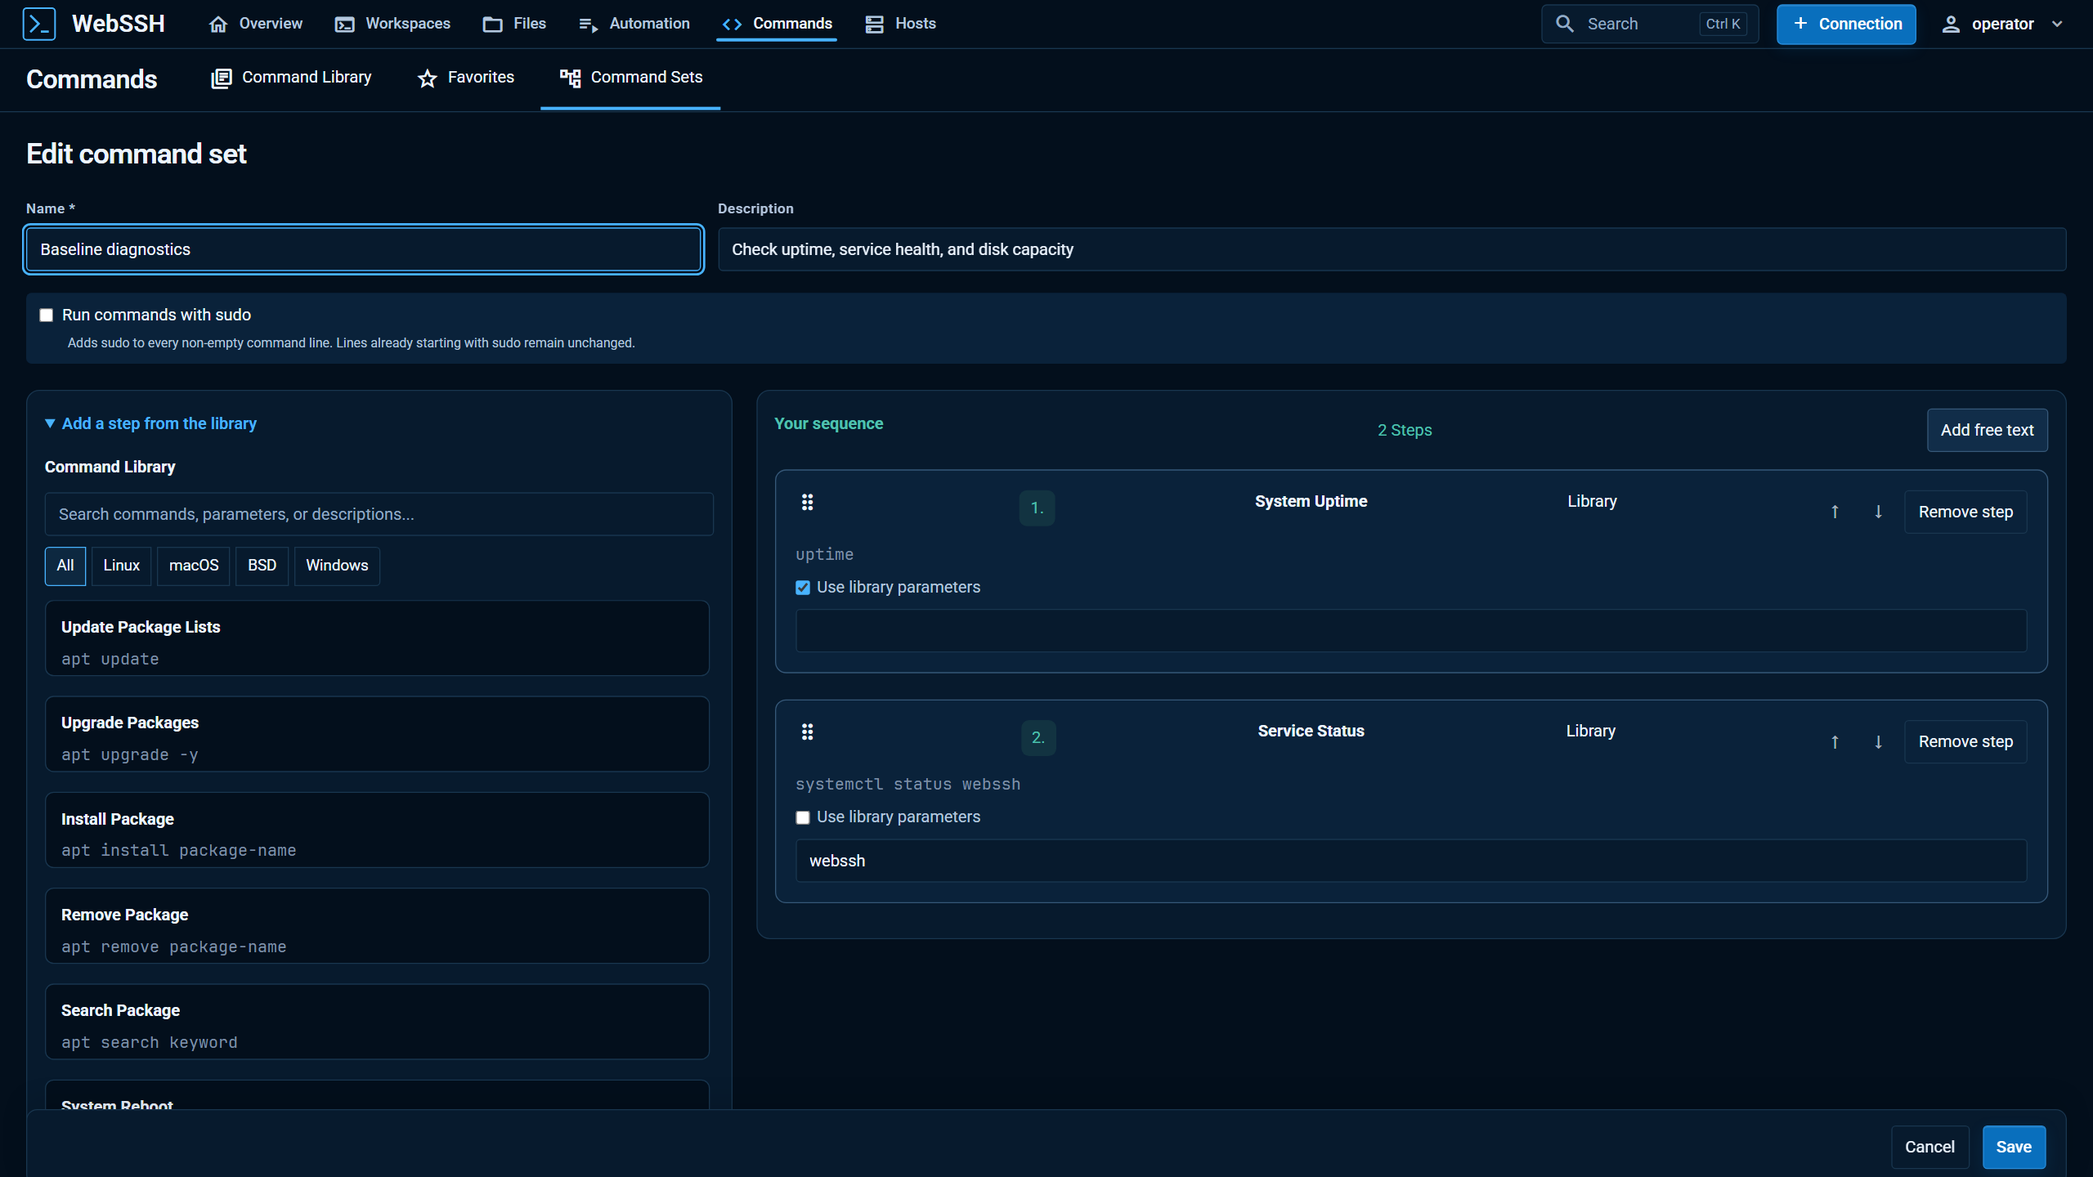
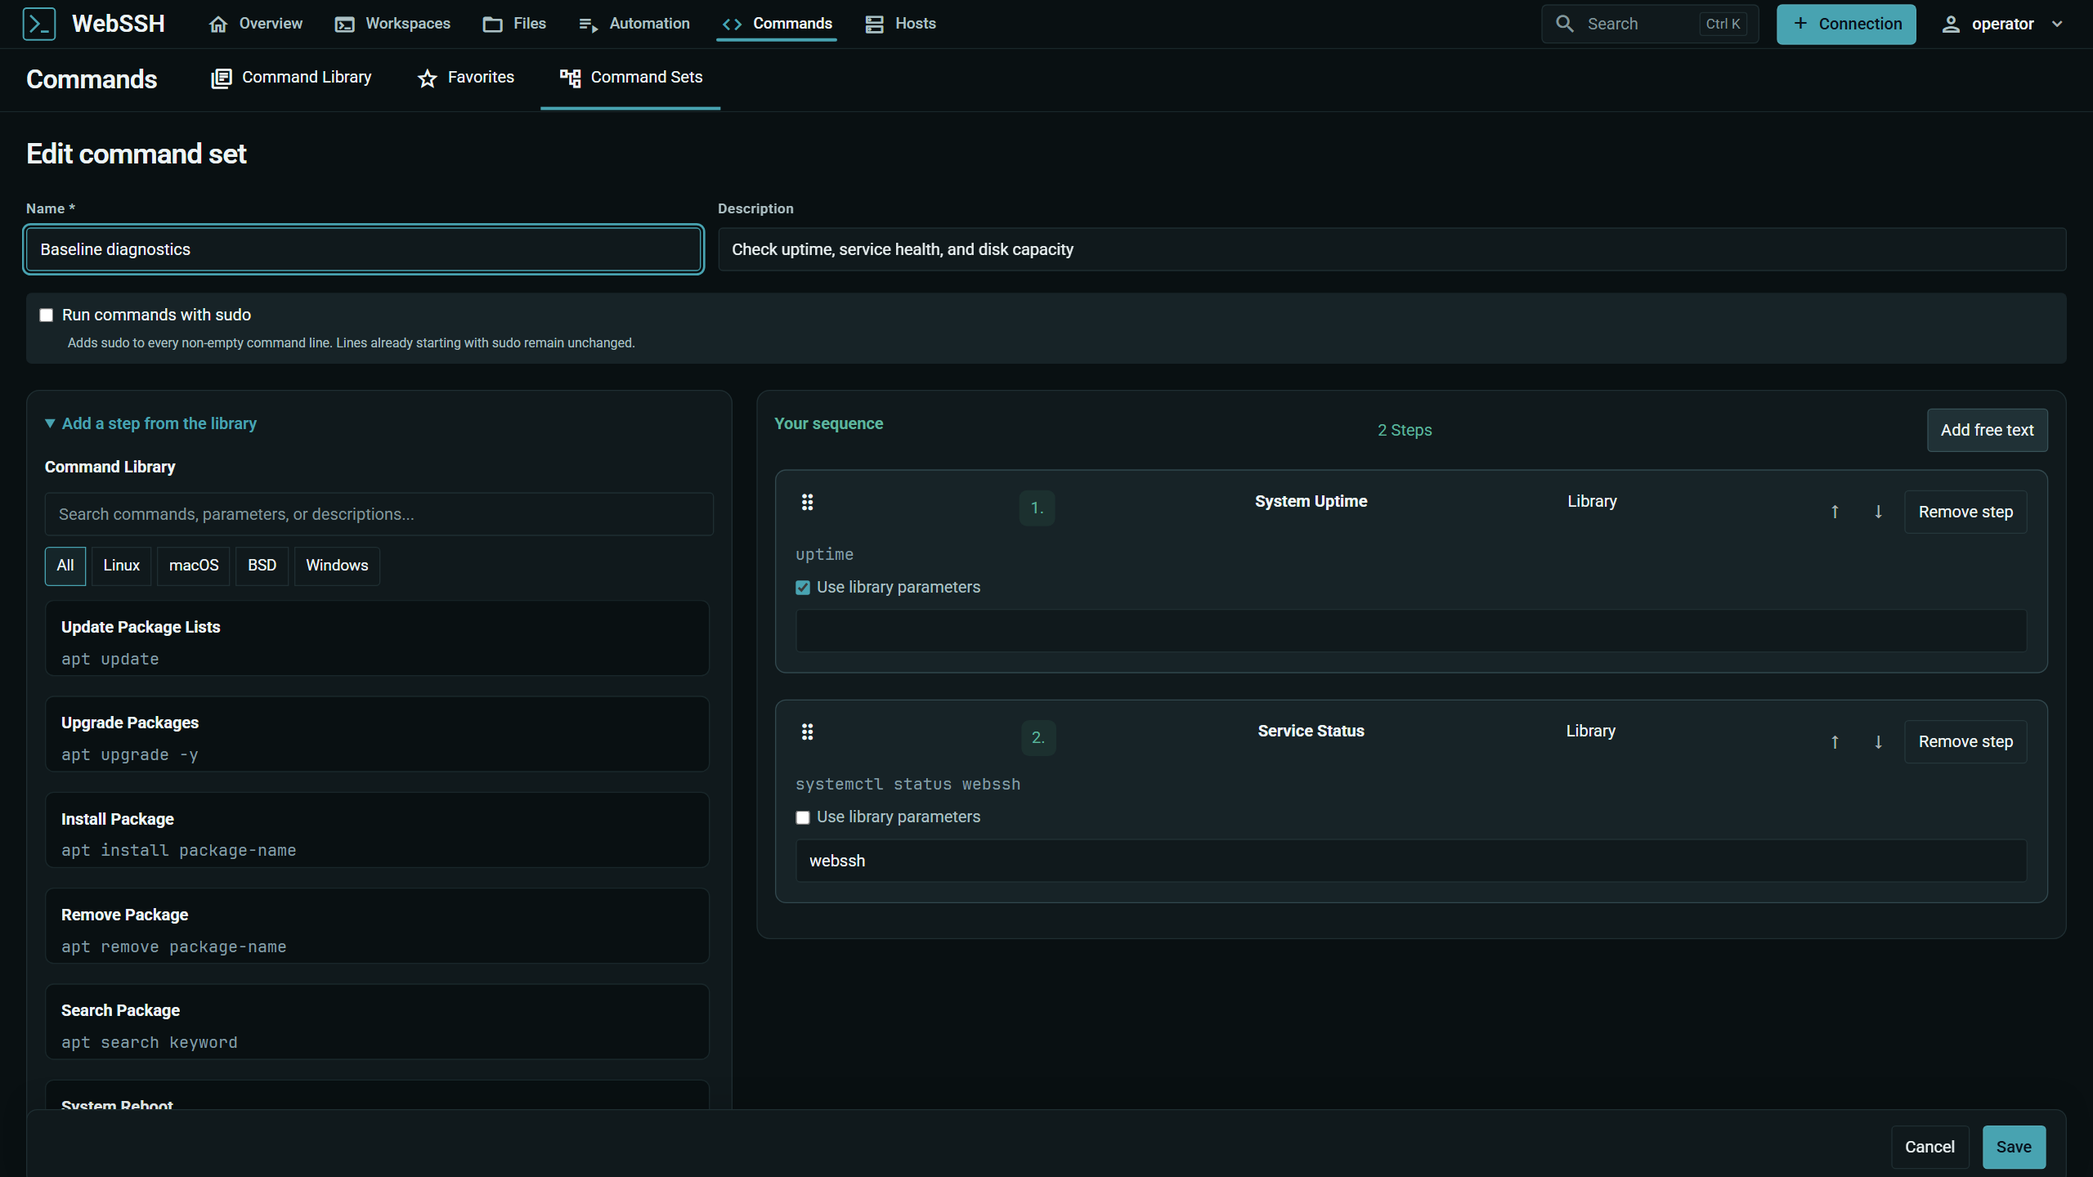
Show every README capture in one theme (#316)
* Show every README capture in one theme

The README mixed captures in the Arctic Ice theme with older ones in the
default blue theme, and its logo used the Werkbank sand colors. The
capture pipeline now switches every published still, frame and mobile
capture to Arctic Ice before taking it, outside normal test runs; all
screenshots and tours are regenerated from the current release. The
README logo is a fixed copy in the same theme's colors; the app logo
still follows the chosen theme. The subtitle uses a plain hyphen.

* Refresh demo cache key and README logo test for the new captures

diff --git a/site/index.html b/site/index.html
@@ -19,7 +19,7 @@
     <div class="shell header-inner">
       <a class="brand" href="./" aria-label="WebSSH home"><img src="assets/webssh-logo.svg?v=d302140c1cbd" width="40" height="40" alt="WebSSH"><span class="brand-tagline">Your shell. Your rules.</span></a>
       <button class="nav-toggle" type="button" aria-expanded="false" aria-controls="site-navigation" data-nav-toggle><span class="icon" aria-hidden="true">menu</span><span class="sr-only">Toggle navigation</span></button>
-      <nav class="site-nav" id="site-navigation" aria-label="Main navigation" data-navigation><a href="features.html">Features</a><a href="demo.html?v=f96bc32775b8">Demo</a><a href="self-hosting.html">Self-hosting</a><a href="security.html">Security</a><a href="./#quick-start">Quick start</a><a class="nav-source" href="https://github.com/bifrost0x/webssh"><span class="icon" aria-hidden="true">code</span> GitHub</a></nav>
+      <nav class="site-nav" id="site-navigation" aria-label="Main navigation" data-navigation><a href="features.html">Features</a><a href="demo.html?v=60beefc0f8c5">Demo</a><a href="self-hosting.html">Self-hosting</a><a href="security.html">Security</a><a href="./#quick-start">Quick start</a><a class="nav-source" href="https://github.com/bifrost0x/webssh"><span class="icon" aria-hidden="true">code</span> GitHub</a></nav>
     </div>
   </header>
   <main id="main-content">
@@ -28,13 +28,13 @@
       <h1 id="hero-title">Your shell. <span>Your rules.</span></h1>
       <p class="hero-lead">Your servers, terminals and files.<br>One workspace you control.</p>
       <p class="hero-definition">WebSSH is a free, open-source SSH and SFTP client you host yourself. Open terminals, move files and manage remote servers from your browser.</p>
-      <div class="hero-actions"><a class="button button-primary" href="#quick-start">Get started <span class="icon" aria-hidden="true">arrow_forward</span></a><a class="text-link" href="demo.html?v=f96bc32775b8"><span class="icon" aria-hidden="true">play_circle</span> Explore version 3</a><a class="text-link" href="https://github.com/bifrost0x/webssh">View on GitHub <span class="icon" aria-hidden="true">open_in_new</span></a></div>
+      <div class="hero-actions"><a class="button button-primary" href="#quick-start">Get started <span class="icon" aria-hidden="true">arrow_forward</span></a><a class="text-link" href="demo.html?v=60beefc0f8c5"><span class="icon" aria-hidden="true">play_circle</span> Explore version 3</a><a class="text-link" href="https://github.com/bifrost0x/webssh">View on GitHub <span class="icon" aria-hidden="true">open_in_new</span></a></div>
     </section>
     <section class="workspace shell" id="workspace" aria-labelledby="workspace-title">
       <h2 class="sr-only" id="workspace-title">See WebSSH in action</h2>
       <figure class="workspace-preview">
-        <a href="demo.html?v=f96bc32775b8" aria-label="Explore WebSSH 3"><img src="assets/dashboard.png" width="1280" height="720" alt="WebSSH video tour: your servers, one workspace. SSH routes and SFTP files in the current interface." fetchpriority="high"></a>
-        <figcaption><a href="demo.html?v=f96bc32775b8">Explore WebSSH 3</a> · WebSSH 3 · current browser captures · example data · <a href="assets/session-workspace.png">View the workspace screenshot</a></figcaption>
+        <a href="demo.html?v=60beefc0f8c5" aria-label="Explore WebSSH 3"><img src="assets/dashboard.png" width="1280" height="720" alt="WebSSH video tour: your servers, one workspace. SSH routes and SFTP files in the current interface." fetchpriority="high"></a>
+        <figcaption><a href="demo.html?v=60beefc0f8c5">Explore WebSSH 3</a> · WebSSH 3 · current browser captures · example data · <a href="assets/session-workspace.png">View the workspace screenshot</a></figcaption>
       </figure>
       <ul class="product-facts" aria-label="WebSSH product principles"><li><span class="icon" aria-hidden="true">check</span> Self-hosted</li><li><span class="icon" aria-hidden="true">check</span> Open source</li><li><span class="icon" aria-hidden="true">check</span> No telemetry</li></ul>
     </section>

diff --git a/site/demo.html b/site/demo.html
@@ -20,7 +20,7 @@
     <div class="shell header-inner">
       <a class="brand" href="./" aria-label="WebSSH home"><img src="assets/webssh-logo.svg?v=d302140c1cbd" width="40" height="40" alt="WebSSH"><span class="brand-tagline">Your shell. Your rules.</span></a>
       <button class="nav-toggle" type="button" aria-expanded="false" aria-controls="site-navigation" data-nav-toggle><span class="icon" aria-hidden="true">menu</span><span class="sr-only">Toggle navigation</span></button>
-      <nav class="site-nav" id="site-navigation" aria-label="Main navigation" data-navigation><a href="features.html">Features</a><a href="demo.html?v=f96bc32775b8" class="nav-current" aria-current="page">Demo</a><a href="self-hosting.html">Self-hosting</a><a href="security.html">Security</a><a href="./#quick-start">Quick start</a><a class="nav-source" href="https://github.com/bifrost0x/webssh"><span class="icon" aria-hidden="true">code</span> GitHub</a></nav>
+      <nav class="site-nav" id="site-navigation" aria-label="Main navigation" data-navigation><a href="features.html">Features</a><a href="demo.html?v=60beefc0f8c5" class="nav-current" aria-current="page">Demo</a><a href="self-hosting.html">Self-hosting</a><a href="security.html">Security</a><a href="./#quick-start">Quick start</a><a class="nav-source" href="https://github.com/bifrost0x/webssh"><span class="icon" aria-hidden="true">code</span> GitHub</a></nav>
     </div>
   </header>
   <main id="main-content" class="shell demo-page">

diff --git a/site/features.html b/site/features.html
@@ -19,7 +19,7 @@
     <div class="shell header-inner">
       <a class="brand" href="./" aria-label="WebSSH home"><img src="assets/webssh-logo.svg?v=d302140c1cbd" width="40" height="40" alt="WebSSH"><span class="brand-tagline">Your shell. Your rules.</span></a>
       <button class="nav-toggle" type="button" aria-expanded="false" aria-controls="site-navigation" data-nav-toggle><span class="icon" aria-hidden="true">menu</span><span class="sr-only">Toggle navigation</span></button>
-      <nav class="site-nav" id="site-navigation" aria-label="Main navigation" data-navigation><a href="features.html" class="nav-current" aria-current="page">Features</a><a href="demo.html?v=f96bc32775b8">Demo</a><a href="self-hosting.html">Self-hosting</a><a href="security.html">Security</a><a href="./#quick-start">Quick start</a><a class="nav-source" href="https://github.com/bifrost0x/webssh"><span class="icon" aria-hidden="true">code</span> GitHub</a></nav>
+      <nav class="site-nav" id="site-navigation" aria-label="Main navigation" data-navigation><a href="features.html" class="nav-current" aria-current="page">Features</a><a href="demo.html?v=60beefc0f8c5">Demo</a><a href="self-hosting.html">Self-hosting</a><a href="security.html">Security</a><a href="./#quick-start">Quick start</a><a class="nav-source" href="https://github.com/bifrost0x/webssh"><span class="icon" aria-hidden="true">code</span> GitHub</a></nav>
     </div>
   </header>
 <main class="shell guide-page" id="main-content">

diff --git a/site/security.html b/site/security.html
@@ -19,7 +19,7 @@
     <div class="shell header-inner">
       <a class="brand" href="./" aria-label="WebSSH home"><img src="assets/webssh-logo.svg?v=d302140c1cbd" width="40" height="40" alt="WebSSH"><span class="brand-tagline">Your shell. Your rules.</span></a>
       <button class="nav-toggle" type="button" aria-expanded="false" aria-controls="site-navigation" data-nav-toggle><span class="icon" aria-hidden="true">menu</span><span class="sr-only">Toggle navigation</span></button>
-      <nav class="site-nav" id="site-navigation" aria-label="Main navigation" data-navigation><a href="features.html">Features</a><a href="demo.html?v=f96bc32775b8">Demo</a><a href="self-hosting.html">Self-hosting</a><a href="security.html" class="nav-current" aria-current="page">Security</a><a href="./#quick-start">Quick start</a><a class="nav-source" href="https://github.com/bifrost0x/webssh"><span class="icon" aria-hidden="true">code</span> GitHub</a></nav>
+      <nav class="site-nav" id="site-navigation" aria-label="Main navigation" data-navigation><a href="features.html">Features</a><a href="demo.html?v=60beefc0f8c5">Demo</a><a href="self-hosting.html">Self-hosting</a><a href="security.html" class="nav-current" aria-current="page">Security</a><a href="./#quick-start">Quick start</a><a class="nav-source" href="https://github.com/bifrost0x/webssh"><span class="icon" aria-hidden="true">code</span> GitHub</a></nav>
     </div>
   </header>
 <main class="shell guide-page" id="main-content">

diff --git a/site/self-hosting.html b/site/self-hosting.html
@@ -19,7 +19,7 @@
     <div class="shell header-inner">
       <a class="brand" href="./" aria-label="WebSSH home"><img src="assets/webssh-logo.svg?v=d302140c1cbd" width="40" height="40" alt="WebSSH"><span class="brand-tagline">Your shell. Your rules.</span></a>
       <button class="nav-toggle" type="button" aria-expanded="false" aria-controls="site-navigation" data-nav-toggle><span class="icon" aria-hidden="true">menu</span><span class="sr-only">Toggle navigation</span></button>
-      <nav class="site-nav" id="site-navigation" aria-label="Main navigation" data-navigation><a href="features.html">Features</a><a href="demo.html?v=f96bc32775b8">Demo</a><a href="self-hosting.html" class="nav-current" aria-current="page">Self-hosting</a><a href="security.html">Security</a><a href="./#quick-start">Quick start</a><a class="nav-source" href="https://github.com/bifrost0x/webssh"><span class="icon" aria-hidden="true">code</span> GitHub</a></nav>
+      <nav class="site-nav" id="site-navigation" aria-label="Main navigation" data-navigation><a href="features.html">Features</a><a href="demo.html?v=60beefc0f8c5">Demo</a><a href="self-hosting.html" class="nav-current" aria-current="page">Self-hosting</a><a href="security.html">Security</a><a href="./#quick-start">Quick start</a><a class="nav-source" href="https://github.com/bifrost0x/webssh"><span class="icon" aria-hidden="true">code</span> GitHub</a></nav>
     </div>
   </header>
 <main class="shell guide-page" id="main-content">

diff --git a/tests/e2e/product-captures.spec.js b/tests/e2e/product-captures.spec.js
@@ -7,7 +7,7 @@ const {
     login,
     openKeyManagement,
 } = require('./helpers');
-const { captureOutputPath: repositoryCaptureOutputPath } = require('./capture-output');
+const { applyCaptureTheme, captureOutputPath: repositoryCaptureOutputPath } = require('./capture-output');
 
 const DESKTOP_VIEWPORT = { width: 1920, height: 1080 };
 const DESKTOP_DEVICE_SCALE_FACTOR = 4 / 3;
@@ -57,6 +57,7 @@ function readPngSize(filePath) {
 
 async function captureDesktopStill(page, filename, testInfo) {
     if (!captureAssetsEnabled()) return;
+    await applyCaptureTheme(page);
     const filePath = captureOutputPath(testInfo, filename);
     await page.screenshot({
         path: filePath,
@@ -213,6 +214,7 @@ async function seedCommandSetAnimationCatalog(page) {
 
 async function captureCssFrame(page, frameDirectory, filename) {
     if (!captureAssetsEnabled()) return;
+    await applyCaptureTheme(page);
     const filePath = path.join(frameDirectory, filename);
     await page.screenshot({
         path: filePath,
@@ -1145,6 +1147,7 @@ test.describe('mobile product capture', () => {
         expect(layout.bodyWidth).toBeLessThanOrEqual(layout.viewportWidth);
 
         if (captureAssetsEnabled()) {
+            await applyCaptureTheme(page);
             const filePath = captureOutputPath(testInfo, 'mobile-workspace.png');
             await page.screenshot({
                 path: filePath,

diff --git a/site/impressum.html b/site/impressum.html
@@ -19,7 +19,7 @@
     <div class="shell header-inner">
       <a class="brand" href="./" aria-label="WebSSH home"><img src="assets/webssh-logo.svg?v=d302140c1cbd" width="40" height="40" alt="WebSSH"><span class="brand-tagline">Your shell. Your rules.</span></a>
       <button class="nav-toggle" type="button" aria-expanded="false" aria-controls="site-navigation" data-nav-toggle><span class="icon" aria-hidden="true">menu</span><span class="sr-only">Toggle navigation</span></button>
-      <nav class="site-nav" id="site-navigation" aria-label="Main navigation" data-navigation><a href="features.html">Features</a><a href="demo.html?v=f96bc32775b8">Demo</a><a href="self-hosting.html">Self-hosting</a><a href="security.html">Security</a><a href="./#quick-start">Quick start</a><a class="nav-source" href="https://github.com/bifrost0x/webssh"><span class="icon" aria-hidden="true">code</span> GitHub</a></nav>
+      <nav class="site-nav" id="site-navigation" aria-label="Main navigation" data-navigation><a href="features.html">Features</a><a href="demo.html?v=60beefc0f8c5">Demo</a><a href="self-hosting.html">Self-hosting</a><a href="security.html">Security</a><a href="./#quick-start">Quick start</a><a class="nav-source" href="https://github.com/bifrost0x/webssh"><span class="icon" aria-hidden="true">code</span> GitHub</a></nav>
     </div>
   </header>
 <main class="shell legal-page" id="main-content">

diff --git a/site/privacy.html b/site/privacy.html
@@ -19,7 +19,7 @@
     <div class="shell header-inner">
       <a class="brand" href="./" aria-label="WebSSH home"><img src="assets/webssh-logo.svg?v=d302140c1cbd" width="40" height="40" alt="WebSSH"><span class="brand-tagline">Your shell. Your rules.</span></a>
       <button class="nav-toggle" type="button" aria-expanded="false" aria-controls="site-navigation" data-nav-toggle><span class="icon" aria-hidden="true">menu</span><span class="sr-only">Toggle navigation</span></button>
-      <nav class="site-nav" id="site-navigation" aria-label="Main navigation" data-navigation><a href="features.html">Features</a><a href="demo.html?v=f96bc32775b8">Demo</a><a href="self-hosting.html">Self-hosting</a><a href="security.html">Security</a><a href="./#quick-start">Quick start</a><a class="nav-source" href="https://github.com/bifrost0x/webssh"><span class="icon" aria-hidden="true">code</span> GitHub</a></nav>
+      <nav class="site-nav" id="site-navigation" aria-label="Main navigation" data-navigation><a href="features.html">Features</a><a href="demo.html?v=60beefc0f8c5">Demo</a><a href="self-hosting.html">Self-hosting</a><a href="security.html">Security</a><a href="./#quick-start">Quick start</a><a class="nav-source" href="https://github.com/bifrost0x/webssh"><span class="icon" aria-hidden="true">code</span> GitHub</a></nav>
     </div>
   </header>
 <main class="shell legal-page" id="main-content">

diff --git a/tests/e2e/capture-output.js b/tests/e2e/capture-output.js
@@ -21,6 +21,21 @@ const PUBLISHED_CAPTURE_ASSETS = new Set([
     'workspace-overview.png',
 ]);
 
+// Every published capture shows the same theme, so the README reads as one product.
+const CAPTURE_THEME = 'arctic-ice';
+
+/** Switch the page to the capture theme and let its scene and fonts settle. */
+async function applyCaptureTheme(page) {
+    const changed = await page.evaluate(theme => {
+        const changed = document.body.dataset.theme !== theme;
+        window.ThemePreference?.store?.(theme);
+        document.body.dataset.theme = theme;
+        return changed;
+    }, CAPTURE_THEME);
+    await page.evaluate(() => document.fonts?.ready);
+    if (changed) await page.waitForTimeout(700);
+}
+
 function captureOutputPath(filename) {
     if (typeof filename !== 'string'
         || path.basename(filename) !== filename
@@ -35,6 +50,8 @@ function captureOutputPath(filename) {
 }
 
 module.exports = {
+    CAPTURE_THEME,
     PUBLISHED_CAPTURE_ASSETS,
+    applyCaptureTheme,
     captureOutputPath,
 };

diff --git a/tests/e2e/session-workspace.spec.js b/tests/e2e/session-workspace.spec.js
@@ -2,7 +2,7 @@ const fs = require('node:fs');
 const path = require('node:path');
 const { test, expect } = require('playwright/test');
 const { openWorkspace, login, assertNoExternalRequests } = require('./helpers');
-const { captureOutputPath } = require('./capture-output');
+const { applyCaptureTheme, captureOutputPath } = require('./capture-output');
 
 for (const width of [390, 1920]) {
     test(`expanding session files preserves the host, folder and existing tabs at ${width}px`, async ({page}) => {
@@ -1115,6 +1115,7 @@ test('single-session workspace keeps terminal primary with on-demand Files, Diag
     expect(resizedContextWidth).toBeGreaterThan(initialContextWidth);
 
     if (captureAssetsEnabled()) {
+        await applyCaptureTheme(page);
         const screenshotPath = capturePath('session-workspace.png');
         await page.screenshot({
             path: screenshotPath,

diff --git a/tests/test_branding.py b/tests/test_branding.py
@@ -60,4 +60,19 @@ def test_static_site_and_readme_do_not_stretch_the_square_mark():
         for image in re.findall(r'<img[^>]+webssh-logo\.svg[^>]*>', contents):
             assert 'width="40"' in image and 'height="40"' in image
     assert 'width="128"' in (root / 'README.md').read_text(encoding='utf-8').split('</p>', 1)[0]
-    assert 'src="static/images/webssh-logo.svg"' in (root / 'README.md').read_text(encoding='utf-8')
+    assert 'src="assets/webssh-logo.svg"' in (root / 'README.md').read_text(encoding='utf-8')
+
+
+def test_readme_logo_is_the_safe_app_mark_in_the_capture_theme():
+    """GitHub renders the README logo without the app's theme variables, so its colors are fixed."""
+    root = Path(__file__).resolve().parents[1]
+    readme_logo = (root / 'assets/webssh-logo.svg').read_text(encoding='utf-8')
+    app_logo = (root / 'static/images/webssh-logo.svg').read_text(encoding='utf-8')
+    assert 'var(' not in readme_logo
+    assert '#091012' in readme_logo and '#48a3b1' in readme_logo
+    mark = ET.fromstring(readme_logo)
+    assert mark.attrib['viewBox'] == ET.fromstring(app_logo).attrib['viewBox'] == '0 0 128 128'
+    for element in mark.iter():
+        assert element.tag.rsplit('}', 1)[-1] not in ('script', 'foreignObject', 'image', 'text')
+        assert not any(key.startswith('on') for key in element.attrib)
+        assert not any('http' in value for value in element.attrib.values() if 'xmlns' not in value)

diff --git a/README.md b/README.md
@@ -1,9 +1,9 @@
 <p align="center">
-  <img src="static/images/webssh-logo.svg" alt="WebSSH" width="128" height="128">
+  <img src="assets/webssh-logo.svg" alt="WebSSH" width="128" height="128">
 </p>
 
 <p align="center">
-  <strong>WebSSH 3 — your self-hosted SSH, files and automation workspace.</strong>
+  <strong>WebSSH 3 - your self-hosted SSH, files and automation workspace.</strong>
 </p>
 
 <p align="center">
